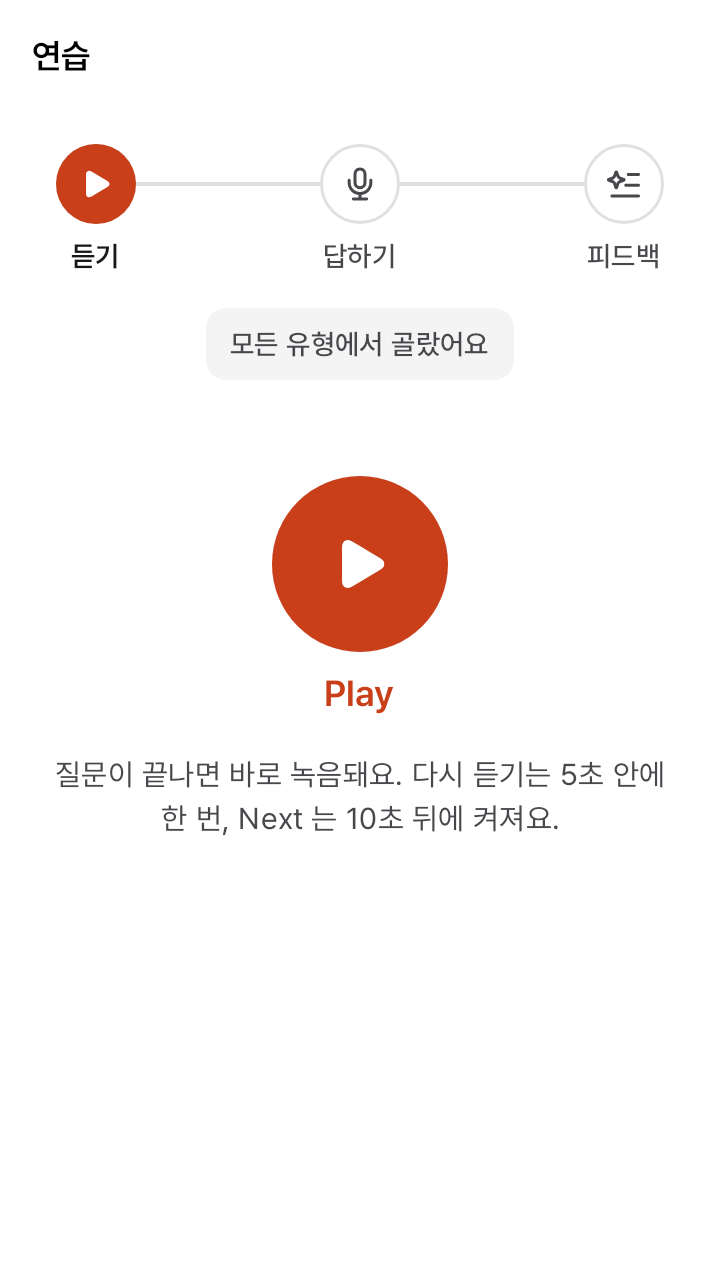
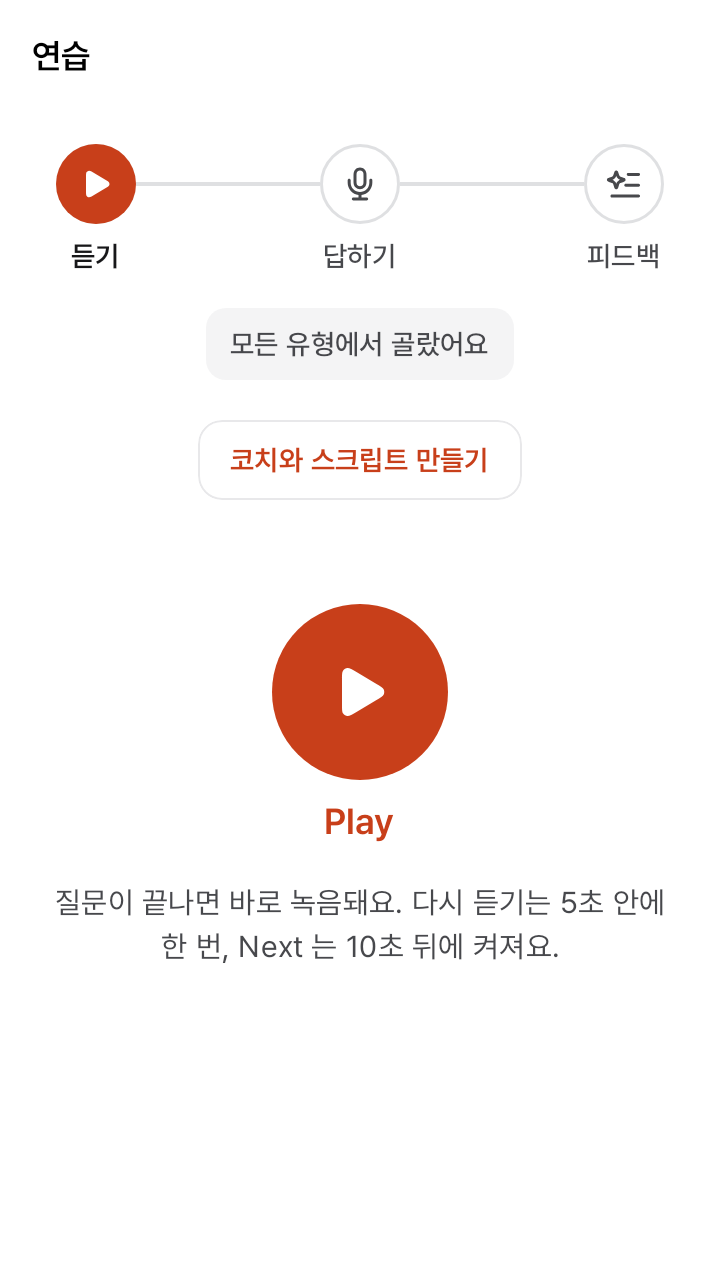
[target-grade] 연습 탭과 기록 탭에 코치 시작 버튼을 두고 앱 층에서 시트를 띄운다 (#263)

diff --git a/ui/feature-history/src/commonMain/kotlin/io/github/nosorae/aiopic/ui/featurehistory/HistoryScreen.kt b/ui/feature-history/src/commonMain/kotlin/io/github/nosorae/aiopic/ui/featurehistory/HistoryScreen.kt
@@ -45,6 +45,7 @@ import io.github.nosorae.aiopic.ui.design.MontageSpacing
 import io.github.nosorae.aiopic.ui.design.MontageTheme
 import io.github.nosorae.aiopic.ui.design.MontageTopBar
 import io.github.nosorae.aiopic.ui.design.montageItemMotion
+import io.github.nosorae.aiopic.ui.featurelive.CoachStartButton
 import org.jetbrains.compose.resources.StringResource
 import org.jetbrains.compose.resources.stringResource
 
@@ -53,10 +54,11 @@ fun HistoryRoute(
     viewModel: HistoryViewModel,
     onOpenSession: (sessionId: String) -> Unit,
     onOpenAnswer: (answerId: String) -> Unit,
+    onOpenCoach: () -> Unit,
     modifier: Modifier = Modifier,
 ) {
     val state by viewModel.uiState.collectAsStateWithLifecycle()
-    HistoryScreen(state = state, onOpenSession = onOpenSession, onOpenAnswer = onOpenAnswer, onIntent = viewModel::onIntent, modifier = modifier)
+    HistoryScreen(state = state, onOpenSession = onOpenSession, onOpenAnswer = onOpenAnswer, onOpenCoach = onOpenCoach, onIntent = viewModel::onIntent, modifier = modifier)
 }
 
 /** 기록 목록에서 볼 종류. 회차와 연습이 둘 다 있을 때만 고를 수 있다. */
@@ -66,7 +68,7 @@ internal enum class HistoryFilter { All, Exam, Practice }
  * 기록 탭(S13, F7.3, F7.4). 모의고사 회차와 한 문항 연습 답변을 한 목록에 최근 것부터 보인다. 회차는 등급과 분석 모델,
  * 연습은 문항 유형과 점수를 보이고 분석 중과 실패도 그 줄에 보인다. 모델이 섞인 회차는 표시한다(F5.7).
  * 회차를 누르면 [onOpenSession] 로 회차 리포트를, 연습을 누르면 [onOpenAnswer] 로 그 답변 리포트를 연다.
- * 아래에 문항 유형별 약점 점수를 약한 것부터 막대와 함께 둔다. 지난번에 본 것보다 오른 점수는 처음 볼 때 점수 둘레에 작은 축하를 한다(#198).
+ * 아래에 문항 유형별 약점 점수를 약한 것부터 막대와 함께 두고, 그 위에 코치 시작 버튼([onOpenCoach], F10.1)을 둔다. 지난번에 본 것보다 오른 점수는 처음 볼 때 점수 둘레에 작은 축하를 한다(#198).
  * 이 화면의 주인공 움직임은 하나다. 맨 위 등급 눈금에서 최근 회차 등급으로 구슬이 미끄러져 멈춘다. 분석 중인 연습 줄의 작은 물결만 기다리는 동안 계속 움직인다.
  */
 @Composable
@@ -74,6 +76,7 @@ fun HistoryScreen(
     state: HistoryUiState,
     onOpenSession: (sessionId: String) -> Unit,
     onOpenAnswer: (answerId: String) -> Unit,
+    onOpenCoach: () -> Unit,
     onIntent: (HistoryIntent) -> Unit,
     modifier: Modifier = Modifier,
 ) {
@@ -118,6 +121,7 @@ fun HistoryScreen(
                     item {
                         SectionTitle(stringResource(Res.string.history_weakness))
                         Body(stringResource(Res.string.history_weakness_help))
+                        CoachStartButton(onClick = onOpenCoach, modifier = Modifier.padding(horizontal = MontageSpacing.spacing20))
                     }
                 }
                 items(state.weaknesses, key = { it.typeName }) { weakness ->
@@ -313,5 +317,5 @@ private fun Body(text: String) {
 @Preview
 @Composable
 private fun HistoryScreenPreview() {
-    MontageTheme { HistoryScreen(state = HistorySamples.filled, onOpenSession = {}, onOpenAnswer = {}, onIntent = {}) }
+    MontageTheme { HistoryScreen(state = HistorySamples.filled, onOpenSession = {}, onOpenAnswer = {}, onOpenCoach = {}, onIntent = {}) }
 }

diff --git a/ui/feature-practice/src/commonMain/kotlin/io/github/nosorae/aiopic/ui/featurepractice/PracticeTabScreen.kt b/ui/feature-practice/src/commonMain/kotlin/io/github/nosorae/aiopic/ui/featurepractice/PracticeTabScreen.kt
@@ -25,21 +25,25 @@ import io.github.nosorae.aiopic.ui.design.MontageScreen
 import io.github.nosorae.aiopic.ui.design.MontageSpacing
 import io.github.nosorae.aiopic.ui.design.MontageTheme
 import io.github.nosorae.aiopic.ui.design.MontageTopBar
+import io.github.nosorae.aiopic.ui.featurelive.CoachStartButton
 import org.jetbrains.compose.resources.stringResource
 
-/** 연습 탭의 바깥 겹. [onStart] 는 한 문항 연습 화면을 연다. 그 화면이 열리자마자 질문을 읽어서 Play 는 한 번만 누른다. */
+/**
+ * 연습 탭의 바깥 겹. [onStart] 는 한 문항 연습 화면을 연다. 그 화면이 열리자마자 질문을 읽어서 Play 는 한 번만 누른다.
+ * [onOpenCoach] 는 코치 시작 시트를 연다(F10.1).
+ */
 @Composable
-fun PracticeTabRoute(viewModel: PracticeTabViewModel, onStart: () -> Unit, modifier: Modifier = Modifier) {
+fun PracticeTabRoute(viewModel: PracticeTabViewModel, onStart: () -> Unit, onOpenCoach: () -> Unit, modifier: Modifier = Modifier) {
     val state by viewModel.uiState.collectAsStateWithLifecycle()
-    PracticeTabScreen(state, onStart, modifier)
+    PracticeTabScreen(state, onStart, onOpenCoach, modifier)
 }
 
 /**
  * 연습 탭의 안쪽 겹. 한 문항 연습 화면의 Play 전 모습과 같게 그려서, Play 를 누르면 같은 자리에서 질문 읽기가 이어지는 것처럼 보인다.
- * 위에서부터 단계 표시, 다음 문항을 낼 약한 유형, Play, 규칙 한 줄이다.
+ * 위에서부터 단계 표시, 다음 문항을 낼 약한 유형, 코치 시작 버튼, Play, 규칙 한 줄이다.
  */
 @Composable
-fun PracticeTabScreen(state: PracticeTabUiState, onStart: () -> Unit, modifier: Modifier = Modifier) {
+fun PracticeTabScreen(state: PracticeTabUiState, onStart: () -> Unit, onOpenCoach: () -> Unit, modifier: Modifier = Modifier) {
     val haptics = LocalHaptics.current
     MontageScreen(modifier = modifier, topBar = { MontageTopBar(title = stringResource(Res.string.practice_tab_title)) }) {
         Column(
@@ -49,7 +53,10 @@ fun PracticeTabScreen(state: PracticeTabUiState, onStart: () -> Unit, modifier: 
         ) {
             MontageAnswerSteps(current = AnswerStep.Listen, withFeedback = true, modifier = Modifier.padding(horizontal = Gutter + MontageSpacing.spacing8))
             // 읽기 전에 "모든 유형" 을 보였다가 약한 유형으로 바꾸지 않는다.
-            if (state.loaded) WhyThisQuestion(state.weakness)
+            if (state.loaded) {
+                WhyThisQuestion(state.weakness)
+                CoachStartButton(onClick = onOpenCoach)
+            }
             Spacer(Modifier.height(MontageSpacing.spacing16))
             MontagePlayButton(
                 text = stringResource(Res.string.practice_play),
@@ -79,5 +86,5 @@ internal object PracticeTabSamples {
 @Preview
 @Composable
 private fun PracticeTabScreenPreview() {
-    MontageTheme { PracticeTabScreen(state = PracticeTabSamples.weak, onStart = {}) }
+    MontageTheme { PracticeTabScreen(state = PracticeTabSamples.weak, onStart = {}, onOpenCoach = {}) }
 }

diff --git a/apps/opic/shared/src/commonMain/kotlin/io/github/nosorae/aiopic/apps/opic/shared/RouteContent.kt b/apps/opic/shared/src/commonMain/kotlin/io/github/nosorae/aiopic/apps/opic/shared/RouteContent.kt
@@ -3,8 +3,11 @@ package io.github.nosorae.aiopic.apps.opic.shared
 import androidx.compose.runtime.Composable
 import androidx.compose.runtime.LaunchedEffect
 import androidx.compose.runtime.getValue
+import androidx.compose.runtime.mutableStateOf
 import androidx.compose.runtime.rememberCoroutineScope
 import androidx.compose.runtime.rememberUpdatedState
+import androidx.compose.runtime.saveable.rememberSaveable
+import androidx.compose.runtime.setValue
 import androidx.compose.ui.Modifier
 import androidx.lifecycle.compose.collectAsStateWithLifecycle
 import androidx.lifecycle.viewmodel.compose.viewModel
@@ -13,6 +16,7 @@ import io.github.nosorae.aiopic.ui.featureexam.ExamRoute
 import io.github.nosorae.aiopic.ui.featureexam.SurveyRoute
 import io.github.nosorae.aiopic.ui.featurehistory.HistoryRoute
 import io.github.nosorae.aiopic.ui.featurehome.HomeRoute
+import io.github.nosorae.aiopic.ui.featurelive.CoachStartRoute
 import io.github.nosorae.aiopic.ui.featureonboarding.consent.ConsentRoute
 import io.github.nosorae.aiopic.ui.featureonboarding.key.KeyEntryRoute
 import io.github.nosorae.aiopic.ui.featureonboarding.key.KeyEntryViewModel
@@ -50,6 +54,16 @@ internal fun RouteContent(
 ) {
     val scope = rememberCoroutineScope()
     val restart: () -> Unit = { scope.launch { onRestart(AppRoute.start(graph.decideStartUseCase())) } }
+    // 코치 시작 시트는 연습 탭과 기록 탭 위에 뜨는 창이라 경로로 쌓지 않는다(F10.1).
+    var coachOpen by rememberSaveable { mutableStateOf(false) }
+    if (coachOpen) {
+        CoachStartRoute(
+            viewModel = viewModel { graph.coachStartViewModel },
+            // 대화 화면은 #265 가 경로를 더하면서 여기서 연다. 그 전까지 시작은 시트만 닫는다.
+            onStart = { coachOpen = false },
+            onDismiss = { coachOpen = false },
+        )
+    }
     when (route) {
         AppRoute.ExamTab -> HomeRoute(
             viewModel = viewModel { graph.homeViewModel },
@@ -62,6 +76,7 @@ internal fun RouteContent(
         AppRoute.PracticeTab -> PracticeTabRoute(
             viewModel = viewModel { graph.practiceTabViewModel },
             onStart = { onOpen(AppRoute.Practice(newId())) },
+            onOpenCoach = { coachOpen = true },
             modifier = modifier,
         )
 
@@ -69,6 +84,7 @@ internal fun RouteContent(
             viewModel = viewModel { graph.historyViewModel },
             onOpenSession = { onOpen(AppRoute.ReportDetail(it)) },
             onOpenAnswer = { onOpen(AppRoute.AnswerReport(it)) },
+            onOpenCoach = { coachOpen = true },
             modifier = modifier,
         )
 

diff --git a/apps/opic/shared/src/commonMain/kotlin/io/github/nosorae/aiopic/apps/opic/shared/AppGraph.kt b/apps/opic/shared/src/commonMain/kotlin/io/github/nosorae/aiopic/apps/opic/shared/AppGraph.kt
@@ -63,6 +63,8 @@ import io.github.nosorae.aiopic.ui.featurehistory.HistoryStore
 import io.github.nosorae.aiopic.ui.featurehistory.HistoryViewModel
 import io.github.nosorae.aiopic.ui.featurehome.ExamSessionSource
 import io.github.nosorae.aiopic.ui.featurehome.HomeViewModel
+import io.github.nosorae.aiopic.ui.featurelive.CoachStartViewModel
+import io.github.nosorae.aiopic.ui.featurelive.TargetGradeStore
 import io.github.nosorae.aiopic.ui.featureonboarding.DomainError
 import io.github.nosorae.aiopic.ui.featureonboarding.DomainResult
 import io.github.nosorae.aiopic.ui.featureonboarding.consent.ConsentViewModel
@@ -136,6 +138,8 @@ interface AppGraph {
 
     val settingsViewModel: SettingsViewModel
 
+    val coachStartViewModel: CoachStartViewModel
+
     val flagExportViewModel: FlagExportViewModel
 
     /** 앱 틀이 구독해서 화면 모드를 고르는 즉시 테마를 바꾼다(F9.1). */
@@ -171,6 +175,8 @@ interface AppGraph {
     @Provides fun hapticsStore(settings: AppSettings): HapticsStore = settings
 
     @Provides fun surveyStore(settings: AppSettings): SurveyStore = settings
+
+    @Provides fun targetGradeStore(settings: AppSettings): TargetGradeStore = settings
 
     @Provides fun pendingAnalysis(jobs: AnalysisJobs): PendingAnalysis = PendingAnalysis(jobs::cancelAll)
 

diff --git a/ui/feature-practice/src/androidHostTest/kotlin/io/github/nosorae/aiopic/ui/featurepractice/PracticeTabScreenTest.kt b/ui/feature-practice/src/androidHostTest/kotlin/io/github/nosorae/aiopic/ui/featurepractice/PracticeTabScreenTest.kt
@@ -20,7 +20,7 @@ class PracticeTabScreenTest {
     @Test
     fun `Play 를 누르면 한 문항 연습을 연다`() {
         var started = 0
-        rule.setContent { MontageTheme { PracticeTabScreen(PracticeTabSamples.weak, onStart = { started++ }) } }
+        rule.setContent { MontageTheme { PracticeTabScreen(PracticeTabSamples.weak, onStart = { started++ }, onOpenCoach = {}) } }
 
         rule.onNodeWithText("Play").performClick()
 
@@ -29,14 +29,14 @@ class PracticeTabScreenTest {
 
     @Test
     fun `약한 유형과 점수를 보인다`() {
-        rule.setContent { MontageTheme { PracticeTabScreen(PracticeTabSamples.weak, onStart = {}) } }
+        rule.setContent { MontageTheme { PracticeTabScreen(PracticeTabSamples.weak, onStart = {}, onOpenCoach = {}) } }
 
         rule.onNodeWithText("42점").assertExists()
     }
 
     @Test
     fun `읽기 전에는 모든 유형 안내를 잠깐 보였다 지우지 않는다`() {
-        rule.setContent { MontageTheme { PracticeTabScreen(PracticeTabUiState(), onStart = {}) } }
+        rule.setContent { MontageTheme { PracticeTabScreen(PracticeTabUiState(), onStart = {}, onOpenCoach = {}) } }
 
         rule.onNodeWithText("모든 유형에서 골랐어요").assertDoesNotExist()
     }

diff --git a/ui/feature-history/src/androidHostTest/kotlin/io/github/nosorae/aiopic/ui/featurehistory/HistoryScreenshotTest.kt b/ui/feature-history/src/androidHostTest/kotlin/io/github/nosorae/aiopic/ui/featurehistory/HistoryScreenshotTest.kt
@@ -142,7 +142,7 @@ class HistoryScreenshotTest {
     private fun show(state: HistoryUiState, dark: Boolean = false, reduceMotion: Boolean = false, onOpenAnswer: (String) -> Unit = {}) {
         rule.mainClock.autoAdvance = false
         rule.setContent {
-            MontageTheme(darkTheme = dark, reduceMotion = reduceMotion) { HistoryScreen(state = state, onOpenSession = {}, onOpenAnswer = onOpenAnswer, onIntent = {}) }
+            MontageTheme(darkTheme = dark, reduceMotion = reduceMotion) { HistoryScreen(state = state, onOpenSession = {}, onOpenAnswer = onOpenAnswer, onOpenCoach = {}, onIntent = {}) }
         }
     }
 

diff --git a/ui/feature-history/src/androidHostTest/kotlin/io/github/nosorae/aiopic/ui/featurehistory/HistoryCelebrationTest.kt b/ui/feature-history/src/androidHostTest/kotlin/io/github/nosorae/aiopic/ui/featurehistory/HistoryCelebrationTest.kt
@@ -86,7 +86,7 @@ class HistoryCelebrationTest {
         rule.mainClock.autoAdvance = false
         rule.setContent {
             MontageTheme(darkTheme = dark, reduceMotion = reduceMotion) {
-                CompositionLocalProvider(LocalHaptics provides Haptics { played += it }) { HistoryScreen(state = state, onOpenSession = {}, onOpenAnswer = {}, onIntent = { intents += it }) }
+                CompositionLocalProvider(LocalHaptics provides Haptics { played += it }) { HistoryScreen(state = state, onOpenSession = {}, onOpenAnswer = {}, onOpenCoach = {}, onIntent = { intents += it }) }
             }
         }
     }

diff --git a/ui/feature-practice/src/androidHostTest/kotlin/io/github/nosorae/aiopic/ui/featurepractice/PracticeTabScreenshotTest.kt b/ui/feature-practice/src/androidHostTest/kotlin/io/github/nosorae/aiopic/ui/featurepractice/PracticeTabScreenshotTest.kt
@@ -24,6 +24,6 @@ class PracticeTabScreenshotTest {
     @Test fun anyType() = shot(PracticeTabSamples.anyType)
 
     private fun shot(state: PracticeTabUiState, dark: Boolean = false) = captureRoboImage {
-        MontageTheme(darkTheme = dark) { PracticeTabScreen(state = state, onStart = {}) }
+        MontageTheme(darkTheme = dark) { PracticeTabScreen(state = state, onStart = {}, onOpenCoach = {}) }
     }
 }
